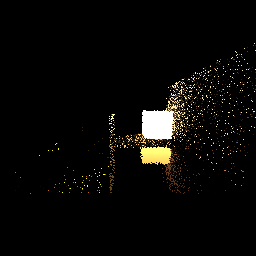
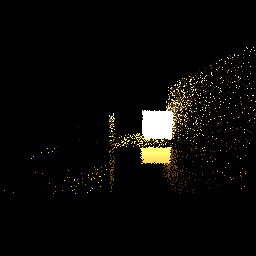
lower settings

diff --git a/src/bin.rs b/src/bin.rs
@@ -6,7 +6,7 @@ use lib::render::*;
 const WIDTH: usize = 256;
 const HEIGHT: usize = 256;
 
-const RPP: usize = 80;
+const RPP: usize = 10;
 const RBC: usize = 3;
 
 use lib::*;
